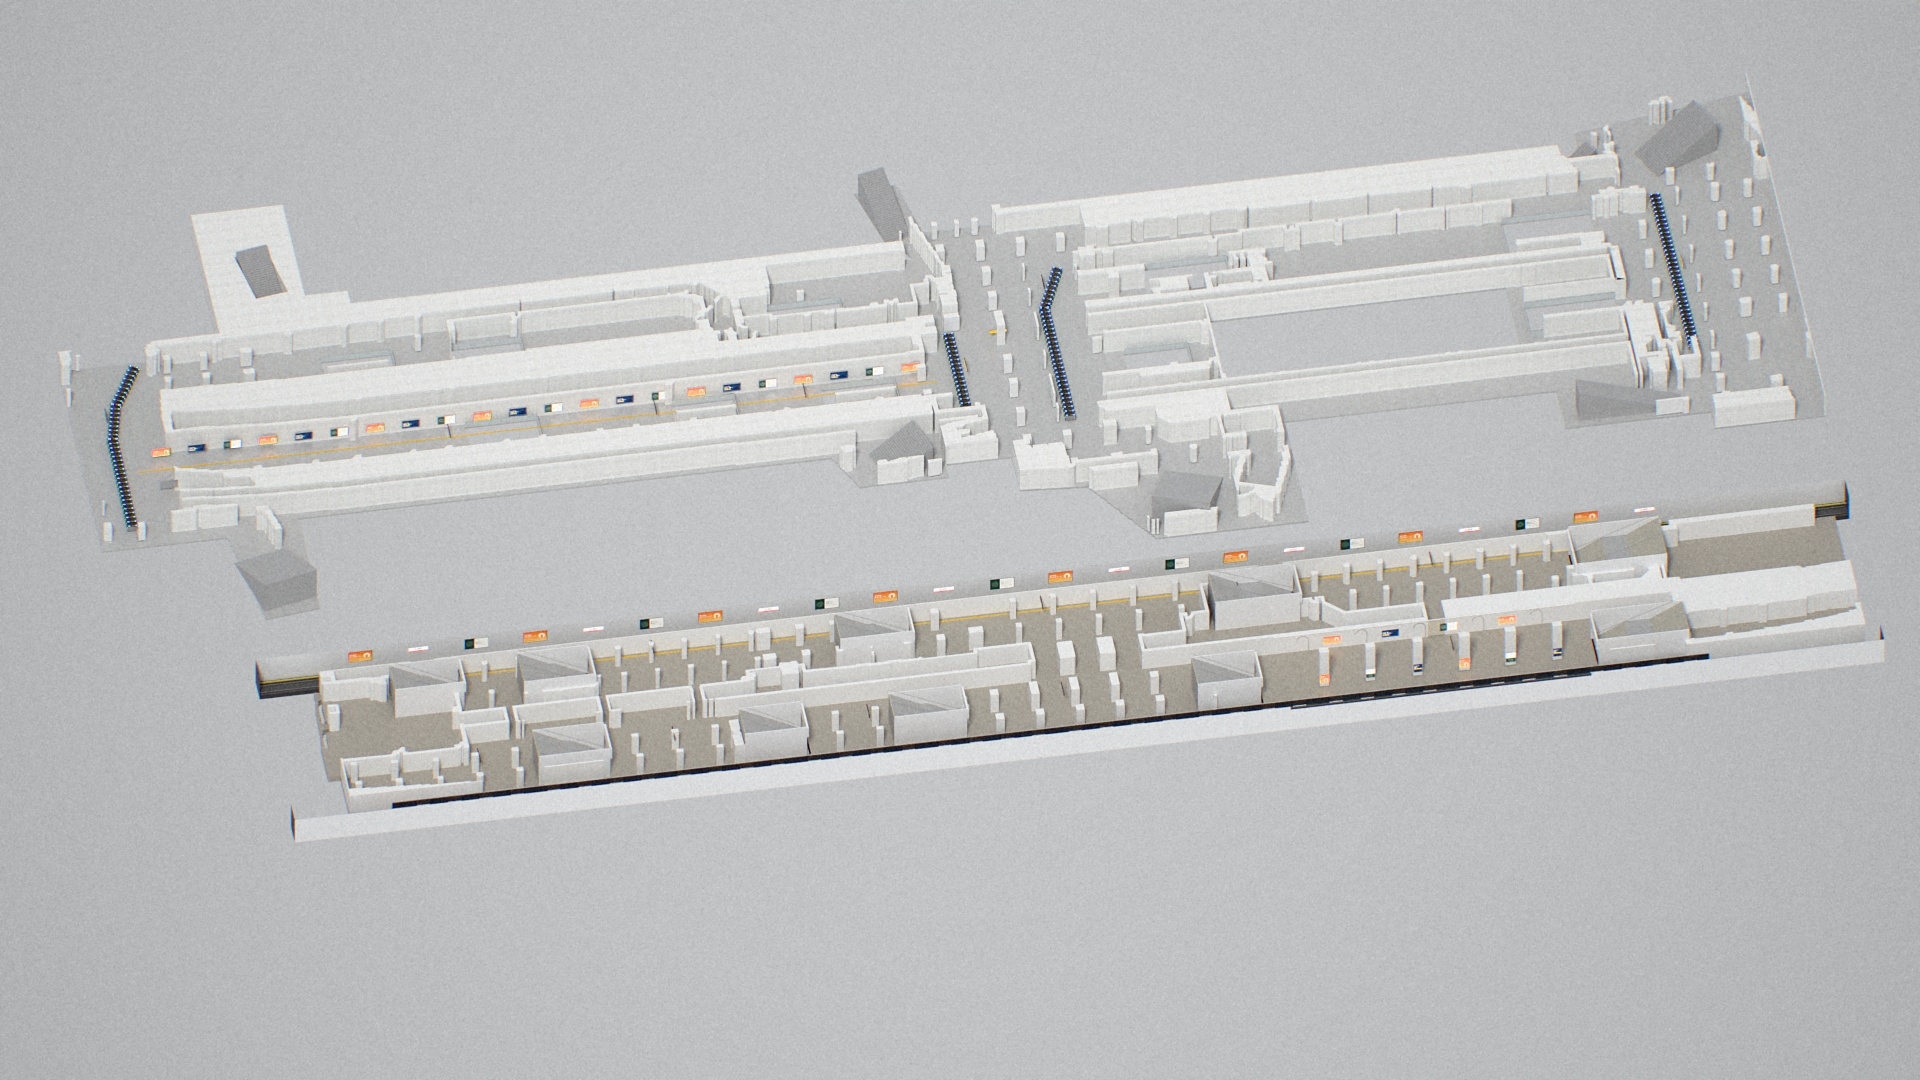
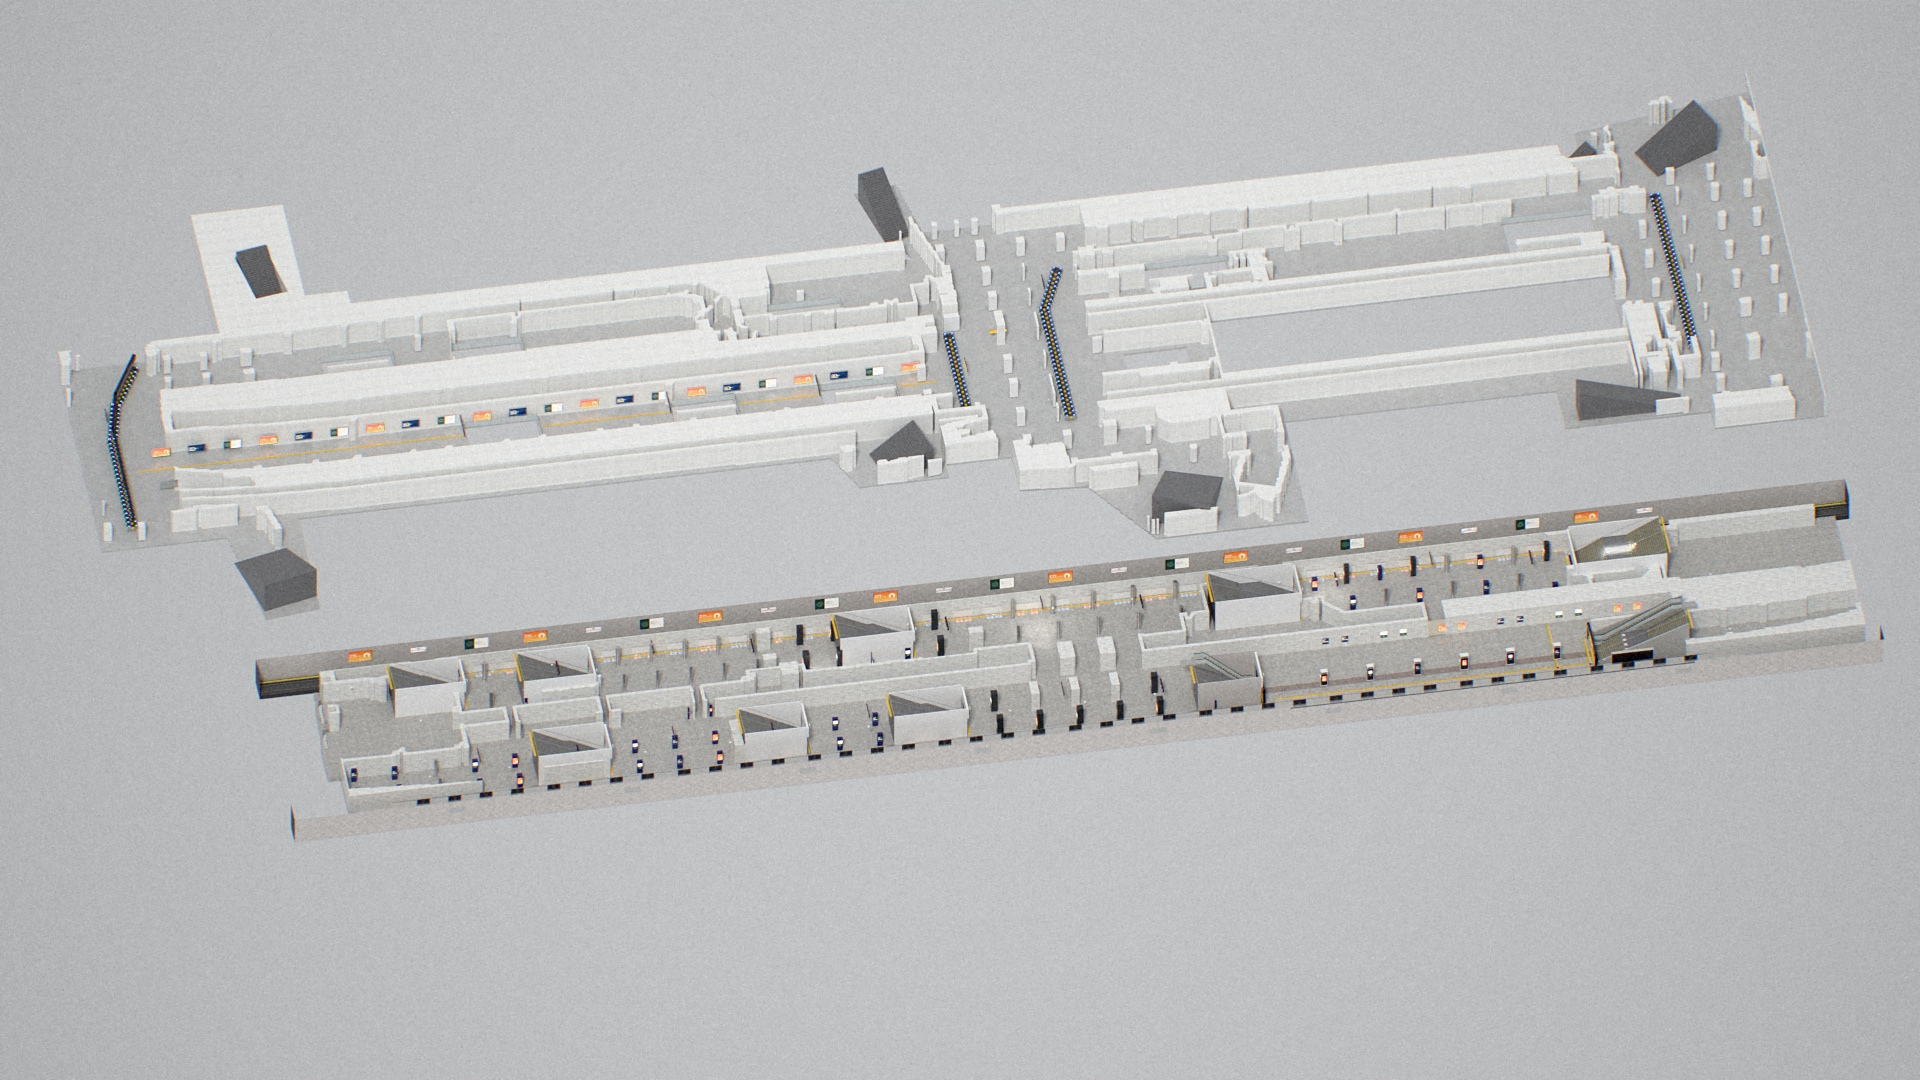
Umeda: final top view and overview; drop the superseded platform render; gate camera frames the gate sign
Claude-Session: https://claude.ai/code/session_01Up345TfCpf9UXXDhGeCGkp

diff --git a/scripts/umeda/build_umeda.py b/scripts/umeda/build_umeda.py
@@ -1182,8 +1182,8 @@ def build_camera(view, args):
         cam.dof.aperture_fstop = 2.4
     elif view == "gate":
         # unpaid side of the north gate, looking south at the gate line (2023 photos)
-        ob.location = (-133.0, 4.0, Z_B1 + 1.55)
-        ob.rotation_euler = (math.radians(90 + 9), 0, math.radians(-112))
+        ob.location = (-132.6, -4.8, Z_B1 + 1.55)
+        ob.rotation_euler = (math.radians(90 + 7), 0, math.radians(-116))
         cam.lens = 24
     elif view == "top":
         # same framing as the map crop x 280..1720, y 390..1250 px (page layout, 1 px = 1 map px)
